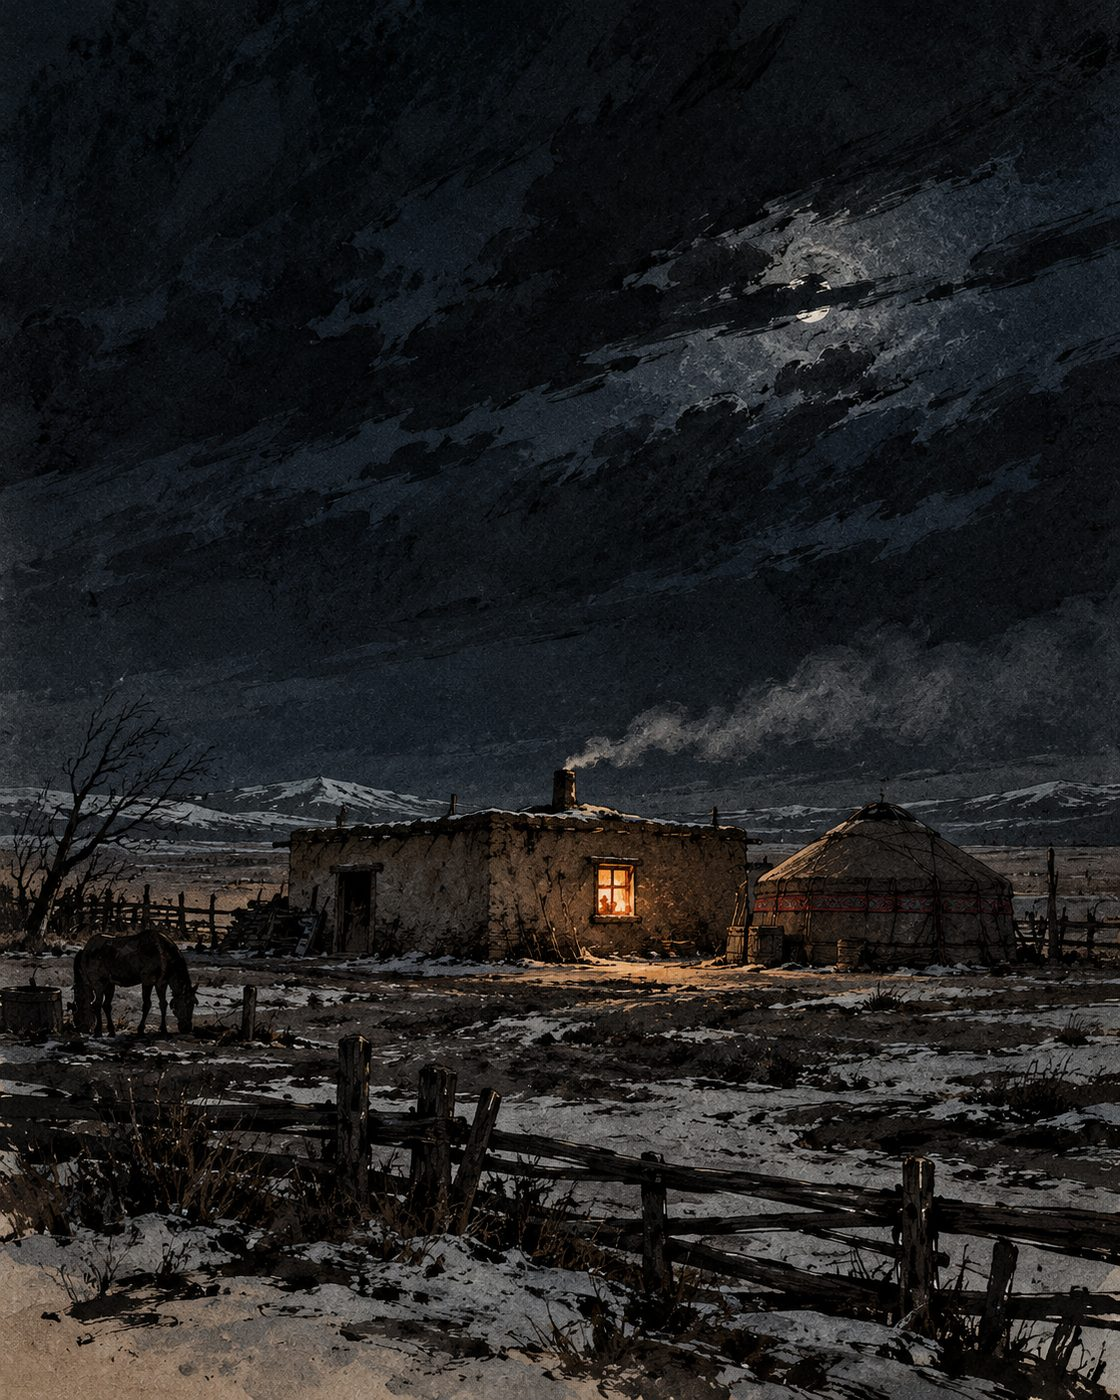
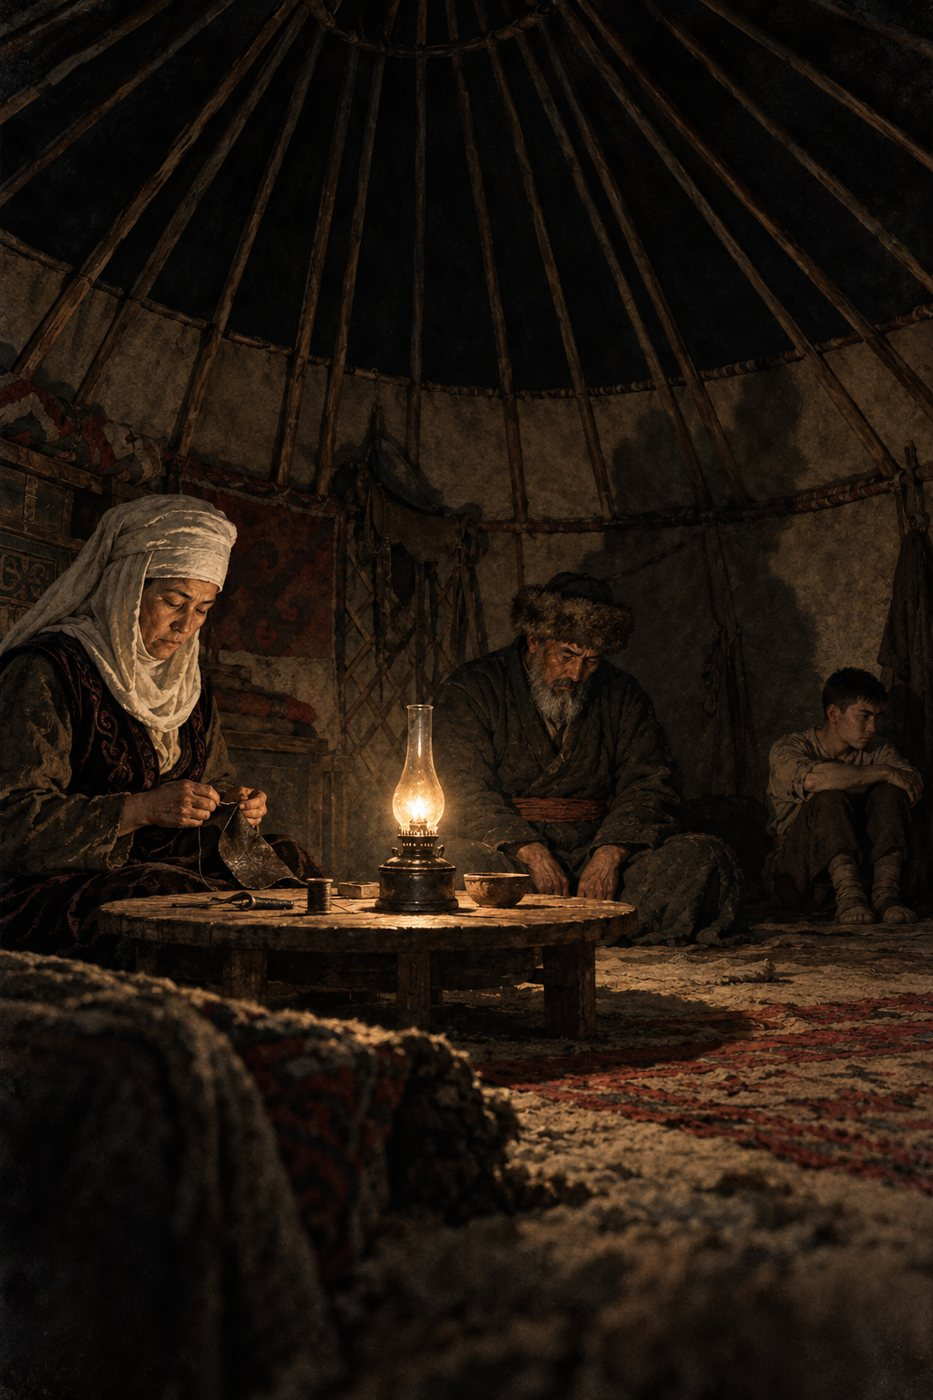
Ch1 night page redrawn to storyboard (lamp, sewing the prayer into the tumar, father hands it over)
Claude-Session: https://claude.ai/code/session_01TXB1pEuYTDqkLdctuQUQJx

diff --git a/index.html b/index.html
@@ -6,7 +6,7 @@
 <title>TUMAR</title>
 <link rel="preconnect" href="https://fonts.googleapis.com">
 <link rel="stylesheet" href="https://fonts.googleapis.com/css2?family=Old+Standard+TT:wght@400;700&family=PT+Serif:ital,wght@0,400;0,700;1,400&family=Caveat:wght@500;600&display=swap">
-<link rel="stylesheet" href="css/style.css?v=2610241514">
+<link rel="stylesheet" href="css/style.css?v=2610241522">
 </head>
 <body>
 <canvas id="c"></canvas>
@@ -53,7 +53,7 @@
 <div id="nb"><div class="sheet" id="nbSheet"></div></div>
 <div class="screen" id="title" style="display:flex">
   <h1>TUMAR</h1>
-  <p class="small" id="ver">версия 2610241514</p>
+  <p class="small" id="ver">версия 2610241522</p>
     <button class="btn" id="continue" disabled>Продолжить</button>
   <button class="btn" id="start">К истории</button>
   <button class="btn" id="fullStart" hidden>История без шифровок</button>
@@ -65,37 +65,37 @@
 <div id="rotate"><div class="ph"></div>Поверните телефон горизонтально.<br><span class="small">Игра идёт только в горизонтальном положении.</span></div>
 
 <script src="https://cdnjs.cloudflare.com/ajax/libs/three.js/r128/three.min.js"></script>
-<script src="js/core/util.js?v=2610241514"></script>
-<script src="js/core/script.js?v=2610241514"></script>
-<script src="js/core/testimony.js?v=2610241514"></script>
-<script src="js/core/save.js?v=2610241514"></script>
-<script src="js/core/memory.js?v=2610241514"></script>
-<script src="js/core/grain.js?v=2610241514"></script>
-<script src="js/core/audio.js?v=2610241514"></script>
-<script src="js/core/engine.js?v=2610241514"></script>
-<script src="js/core/village.js?v=2610241514"></script>
-<script src="js/core/sketch.js?v=2610241514"></script>
-<script src="js/core/ui.js?v=2610241514"></script>
-<script src="js/core/closeup.js?v=2610241514"></script>
-<script src="js/core/artfx.js?v=2610241514"></script>
-<script src="js/core/input.js?v=2610241514"></script>
-<script src="js/scenes/dream.js?v=2610241514"></script>
-<script src="js/core/birdreveal.js?v=2610241514"></script>
-<script src="js/scenes/aul.js?v=2610241514"></script>
-<script src="js/scenes/don.js?v=2610241514"></script>
-<script src="js/scenes/city.js?v=2610241514"></script>
-<script src="js/scenes/donets.js?v=2610241514"></script>
-<script src="js/scenes/field.js?v=2610241514"></script>
-<script src="js/scenes/departure.js?v=2610241514"></script>
-<script src="js/scenes/camp.js?v=2610241514"></script>
-<script src="js/scenes/stalag.js?v=2610241514"></script>
-<script src="js/scenes/farm.js?v=2610241514"></script>
-<script src="js/scenes/filtration.js?v=2610241514"></script>
-<script src="js/scenes/endings.js?v=2610241514"></script>
-<script src="js/scenes/menu.js?v=2610241514"></script>
-<script src="js/core/chronicle.js?v=2610241514"></script>
-<script src="js/main.js?v=2610241514"></script>
-<script src="js/core/touch.js?v=2610241514"></script>
+<script src="js/core/util.js?v=2610241522"></script>
+<script src="js/core/script.js?v=2610241522"></script>
+<script src="js/core/testimony.js?v=2610241522"></script>
+<script src="js/core/save.js?v=2610241522"></script>
+<script src="js/core/memory.js?v=2610241522"></script>
+<script src="js/core/grain.js?v=2610241522"></script>
+<script src="js/core/audio.js?v=2610241522"></script>
+<script src="js/core/engine.js?v=2610241522"></script>
+<script src="js/core/village.js?v=2610241522"></script>
+<script src="js/core/sketch.js?v=2610241522"></script>
+<script src="js/core/ui.js?v=2610241522"></script>
+<script src="js/core/closeup.js?v=2610241522"></script>
+<script src="js/core/artfx.js?v=2610241522"></script>
+<script src="js/core/input.js?v=2610241522"></script>
+<script src="js/scenes/dream.js?v=2610241522"></script>
+<script src="js/core/birdreveal.js?v=2610241522"></script>
+<script src="js/scenes/aul.js?v=2610241522"></script>
+<script src="js/scenes/don.js?v=2610241522"></script>
+<script src="js/scenes/city.js?v=2610241522"></script>
+<script src="js/scenes/donets.js?v=2610241522"></script>
+<script src="js/scenes/field.js?v=2610241522"></script>
+<script src="js/scenes/departure.js?v=2610241522"></script>
+<script src="js/scenes/camp.js?v=2610241522"></script>
+<script src="js/scenes/stalag.js?v=2610241522"></script>
+<script src="js/scenes/farm.js?v=2610241522"></script>
+<script src="js/scenes/filtration.js?v=2610241522"></script>
+<script src="js/scenes/endings.js?v=2610241522"></script>
+<script src="js/scenes/menu.js?v=2610241522"></script>
+<script src="js/core/chronicle.js?v=2610241522"></script>
+<script src="js/main.js?v=2610241522"></script>
+<script src="js/core/touch.js?v=2610241522"></script>
 <!-- Счётчик Ойынханы: время в игре для статистики бота -->
 <script src="https://oyynkhana.vercel.app/track.js" data-game="tumar" defer></script>
 </body>

diff --git a/js/core/artfx.js b/js/core/artfx.js
@@ -1,9 +1,9 @@
 // «Синемаграф»: рисованный кадр стоит, но в нём живут отдельные элементы — дым, огонёк лампы, пар, пыль, снег —
 // и есть тихий звук. Плюс очень медленный наезд на сам кадр. Координаты — доли ширины/высоты картинки.
 const ART_FX = {
-  'ch1_1': { fx:[{t:'glow',x:.55,y:.62,r:.06},{t:'smoke',x:.47,y:.53,n:1},{t:'snow',n:60}], snd:'wind' },
-  'ch1_2': { fx:[{t:'flame',x:.07,y:.12,r:.16}] },
-  'ch1_3': { fx:[{t:'flame',x:.08,y:.12,r:.16}] },
+  'ch1_1': { fx:[{t:'flame',x:.435,y:.57,r:.22},{t:'dust',n:10}], snd:'wind' },
+  'ch1_2': { fx:[{t:'flame',x:.1,y:.1,r:.25}] },
+  'ch1_3': { fx:[{t:'flame',x:.04,y:.6,r:.22}] },
   'ch2_1': { fx:[{t:'smoke',x:.63,y:.2,n:2,dark:1,wind:-1}], snd:'train' },
   'ch2_2': { fx:[{t:'snow',n:40},{t:'dust',n:16}], snd:'distant' },
   'ch2_3': { fx:[{t:'flame',x:.1,y:.45,r:.14}] },
